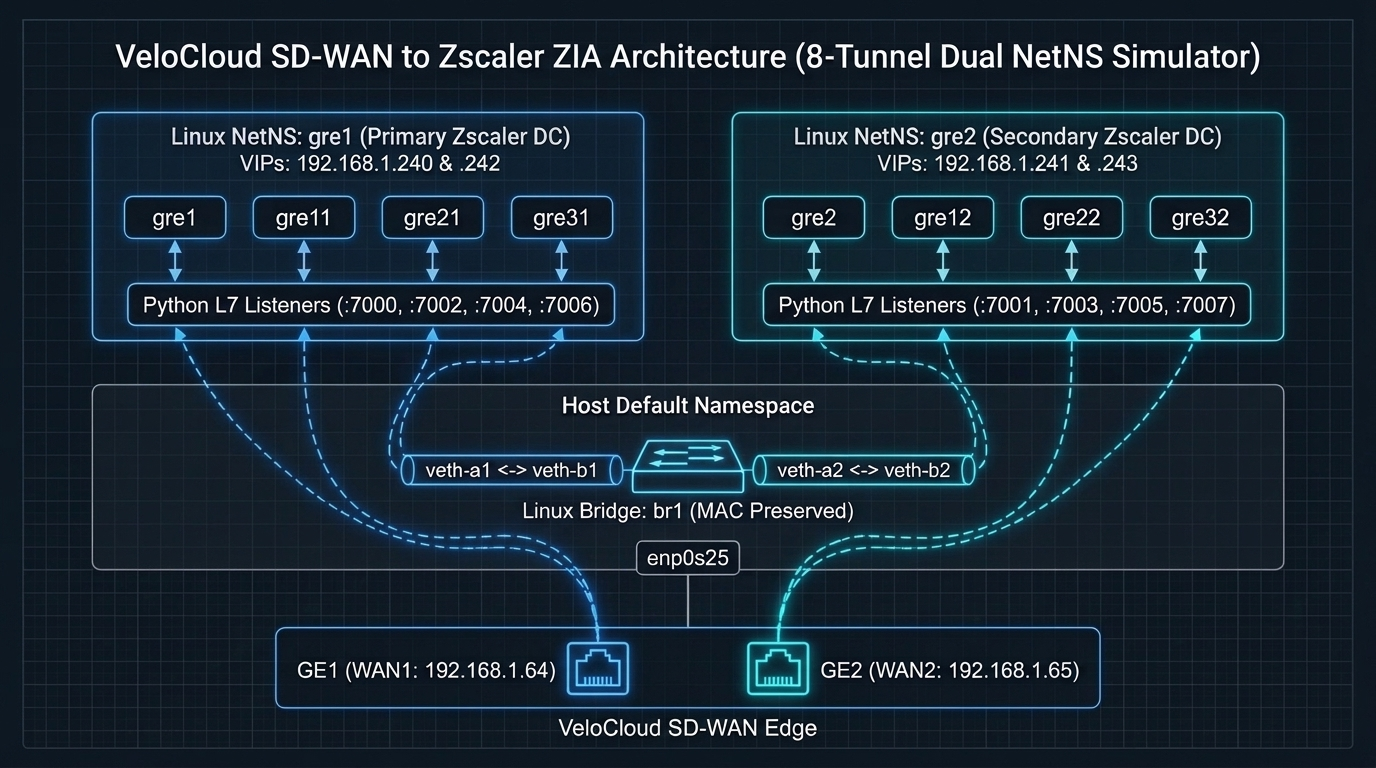
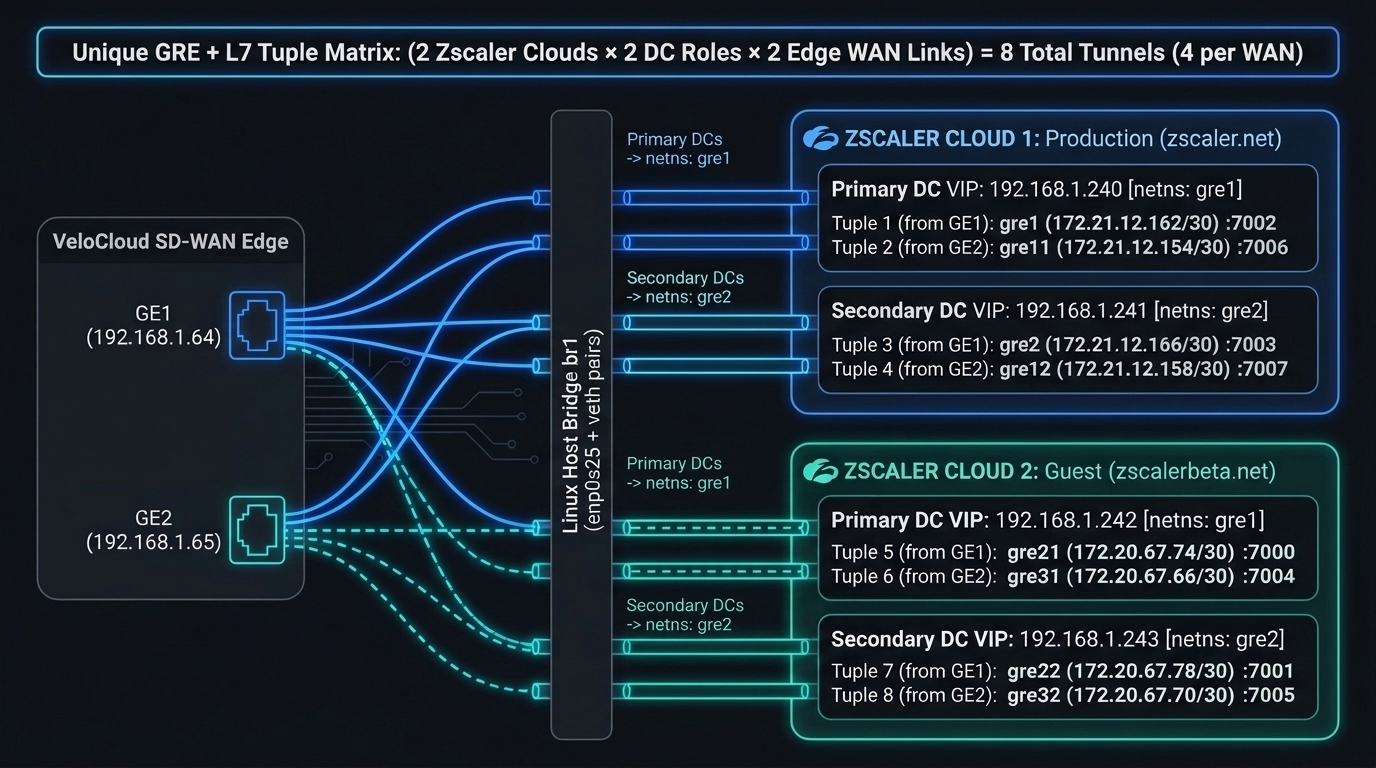
Clarify Zscaler Cloud vs Primary/Secondary DC & Unique 3-Tuple GRE/L7 topology diagrams

diff --git a/README.md b/README.md
@@ -27,20 +27,72 @@ Using **Linux Network Namespaces (`gre1` and `gre2`)**, a **MAC-preserving Linux
 
 ---
 
-## 1. End-to-End Network Architecture
+## 1. End-to-End Network Architecture: Clouds, Primary/Secondary DCs & Unique 3-Tuples
 
-A production VeloCloud SD-WAN deployment with dual WAN links (`GE1` and `GE2`) and two segments (`Production` and `Guest`) builds **8 simultaneous GRE tunnels** to Zscaler (Primary DC and Secondary DC for each WAN link and segment).
+A production VeloCloud SD-WAN Edge with **2 WAN links (`GE1` and `GE2`)** and **2 Zscaler Clouds / CSS profiles (`Production: zscaler.net` and `Guest: zscalerbeta.net`)** builds **4 GRE connections per WAN interface (8 simultaneous GRE tunnels in total)**.
 
-To terminate all 8 GRE tunnels on a single Linux laptop/server without routing table collisions or local IP bypass, the simulator divides the host network stack into two isolated Linux Network Namespaces (`gre1` and `gre2`) connected via a bridge (`br1`):
+Every GRE tunnel—and its dedicated L7 HTTP health check port (`7000`–`7007`)—is uniquely defined by the **3-Tuple**:
+
+$$\text{Unique Connection Tuple} = (\text{Zscaler Cloud}, \text{Datacenter Role [Primary / Secondary]}, \text{Edge WAN Interface [GE1 / GE2]})$$
+
+### 1A. Logical Zscaler Cloud & Unique Tuple Hierarchy (4 Tunnels per WAN / 8 Total)
+
+```mermaid
+flowchart LR
+    subgraph EDGE["VeloCloud SD-WAN Edge (4 Tunnels per WAN Interface)"]
+        GE1["WAN1: GE1 (192.168.1.64)\nOriginates 4 GRE Tunnels + 4 L7 Probes\n(Ports :7002, :7003, :7000, :7001)"]
+        GE2["WAN2: GE2 (192.168.1.65)\nOriginates 4 GRE Tunnels + 4 L7 Probes\n(Ports :7006, :7007, :7004, :7005)"]
+    end
+
+    subgraph CLOUD_PROD["Zscaler Cloud 1: Production (zscaler.net — Segment 10.23.0.0/24)"]
+        subgraph PROD_PRI["Primary DC (destId: 0 | VIP: 192.168.1.240 | netns: gre1)"]
+            T1["Tuple 1: (Prod, Primary, GE1)\nGRE: gre1 (172.21.12.162/30) | L7: :7002"]
+            T2["Tuple 2: (Prod, Primary, GE2)\nGRE: gre11 (172.21.12.154/30) | L7: :7006"]
+        end
+        subgraph PROD_SEC["Secondary DC (destId: 1 | VIP: 192.168.1.241 | netns: gre2)"]
+            T3["Tuple 3: (Prod, Secondary, GE1)\nGRE: gre2 (172.21.12.166/30) | L7: :7003"]
+            T4["Tuple 4: (Prod, Secondary, GE2)\nGRE: gre12 (172.21.12.158/30) | L7: :7007"]
+        end
+    end
+
+    subgraph CLOUD_GUEST["Zscaler Cloud 2: Guest (zscalerbeta.net — Segment 172.16.0.0/24)"]
+        subgraph GUEST_PRI["Primary DC (destId: 0 | VIP: 192.168.1.242 | netns: gre1)"]
+            T5["Tuple 5: (Guest, Primary, GE1)\nGRE: gre21 (172.20.67.74/30) | L7: :7000"]
+            T6["Tuple 6: (Guest, Primary, GE2)\nGRE: gre31 (172.20.67.66/30) | L7: :7004"]
+        end
+        subgraph GUEST_SEC["Secondary DC (destId: 1 | VIP: 192.168.1.243 | netns: gre2)"]
+            T7["Tuple 7: (Guest, Secondary, GE1)\nGRE: gre22 (172.20.67.78/30) | L7: :7001"]
+            T8["Tuple 8: (Guest, Secondary, GE2)\nGRE: gre32 (172.20.67.70/30) | L7: :7005"]
+        end
+    end
+
+    GE1 -->|"1. Prod Pri"| T1
+    GE1 -->|"2. Prod Sec"| T3
+    GE1 -->|"3. Guest Pri"| T5
+    GE1 -->|"4. Guest Sec"| T7
+
+    GE2 -.->|"1. Prod Pri"| T2
+    GE2 -.->|"2. Prod Sec"| T4
+    GE2 -.->|"3. Guest Pri"| T6
+    GE2 -.->|"4. Guest Sec"| T8
+
+    style EDGE stroke:#3b82f6,stroke-width:2px
+    style CLOUD_PROD stroke:#0ea5e9,stroke-width:2px
+    style CLOUD_GUEST stroke:#10b981,stroke-width:2px
+    style PROD_PRI stroke:#10b981,stroke-width:2px
+    style GUEST_PRI stroke:#10b981,stroke-width:2px
+    style PROD_SEC stroke:#8b5cf6,stroke-width:2px
+    style GUEST_SEC stroke:#8b5cf6,stroke-width:2px
+```
+
+### 1B. Physical Host Bridge (`br1`) & Linux Network Namespace Mapping (`gre1` vs `gre2`)
+
+To terminate all 8 GRE tunnels on a single Linux laptop/server without routing table collisions (`10.23.0.0/24` and `172.16.0.0/24`) or local IP bypass, the simulator maps **all Primary DCs (`.240` & `.242`) into namespace `gre1`** and **all Secondary DCs (`.241` & `.243`) into namespace `gre2`**, connected via a MAC-preserving Linux Bridge (`br1`):
 
 ```mermaid
 flowchart TB
-    subgraph EDGE["VeloCloud SD-WAN Edge Appliance"]
-        GE1["GE1 (WAN1): 192.168.1.64"]
-        GE2["GE2 (WAN2): 192.168.1.65"]
-    end
-
     subgraph UNDERLAY["Physical LAN / WAN Underlay (192.168.1.0/24)"]
+        EDGE_WAN["VeloCloud Edge WANs: GE1 (.64) & GE2 (.65)"]
         GW["Upstream Gateway / Internet: 192.168.1.254"]
     end
 
@@ -54,33 +106,26 @@ flowchart TB
         BR1 --> VA2
     end
 
-    subgraph NS_GRE1["Network Namespace: gre1 (Primary Zscaler DC)"]
-        VB1["veth-b1 VIPs: 192.168.1.240 (Prod) & 192.168.1.242 (Guest)"]
-        T_PRI_PROD["Prod GRE Tunnels: gre1 (GE1 .162/30) & gre11 (GE2 .154/30)"]
-        T_PRI_GUEST["Guest GRE Tunnels: gre21 (GE1 .74/30) & gre31 (GE2 .66/30)"]
-        L7_PRI["Python L7 HTTP Listeners: :7002, :7006 (Prod) | :7000, :7004 (Guest)"]
-        VB1 --> T_PRI_PROD
-        VB1 --> T_PRI_GUEST
-        VB1 --> L7_PRI
+    subgraph NS_GRE1["Network Namespace: gre1 (Hosts BOTH Primary Zscaler DCs)"]
+        VB1["veth-b1"]
+        PRI_C1["Cloud 1 Primary DC (zscaler.net — VIP 192.168.1.240)\n- GE1 Tuple: gre1 (172.21.12.162/30) + L7 :7002\n- GE2 Tuple: gre11 (172.21.12.154/30) + L7 :7006"]
+        PRI_C2["Cloud 2 Primary DC (zscalerbeta.net — VIP 192.168.1.242)\n- GE1 Tuple: gre21 (172.20.67.74/30) + L7 :7000\n- GE2 Tuple: gre31 (172.20.67.66/30) + L7 :7004"]
+        VB1 --> PRI_C1
+        VB1 --> PRI_C2
     end
 
-    subgraph NS_GRE2["Network Namespace: gre2 (Secondary Zscaler DC)"]
-        VB2["veth-b2 VIPs: 192.168.1.241 (Prod) & 192.168.1.243 (Guest)"]
-        T_SEC_PROD["Prod GRE Tunnels: gre2 (GE1 .166/30) & gre12 (GE2 .158/30)"]
-        T_SEC_GUEST["Guest GRE Tunnels: gre22 (GE1 .78/30) & gre32 (GE2 .70/30)"]
-        L7_SEC["Python L7 HTTP Listeners: :7003, :7007 (Prod) | :7001, :7005 (Guest)"]
-        VB2 --> T_SEC_PROD
-        VB2 --> T_SEC_GUEST
-        VB2 --> L7_SEC
+    subgraph NS_GRE2["Network Namespace: gre2 (Hosts BOTH Secondary Zscaler DCs)"]
+        VB2["veth-b2"]
+        SEC_C1["Cloud 1 Secondary DC (zscaler.net — VIP 192.168.1.241)\n- GE1 Tuple: gre2 (172.21.12.166/30) + L7 :7003\n- GE2 Tuple: gre12 (172.21.12.158/30) + L7 :7007"]
+        SEC_C2["Cloud 2 Secondary DC (zscalerbeta.net — VIP 192.168.1.243)\n- GE1 Tuple: gre22 (172.20.67.78/30) + L7 :7001\n- GE2 Tuple: gre32 (172.20.67.70/30) + L7 :7005"]
+        VB2 --> SEC_C1
+        VB2 --> SEC_C2
     end
 
-    GE1 <-->|"GRE + L7 Probes"| UNDERLAY
-    GE2 <-->|"GRE + L7 Probes"| UNDERLAY
-    UNDERLAY <--> NIC
+    EDGE_WAN <-->|"8 GRE Tunnels + 8 L7 Probes"| NIC
     VA1 <-->|"Virtual Ethernet Pipe"| VB1
     VA2 <-->|"Virtual Ethernet Pipe"| VB2
 
-    style EDGE stroke:#3b82f6,stroke-width:2px
     style HOST stroke:#64748b,stroke-width:2px
     style NS_GRE1 stroke:#10b981,stroke-width:2px
     style NS_GRE2 stroke:#8b5cf6,stroke-width:2px

diff --git a/docs/DEEP_DIVE_L7_VS_GRE_HEALTHCHECKS.md b/docs/DEEP_DIVE_L7_VS_GRE_HEALTHCHECKS.md
@@ -81,10 +81,42 @@ On the VeloCloud Edge, Layer 7 health checks are driven by `/opt/vc/sbin/l7_heal
    When CSS L7 Health Checks are enabled, `edged` allocates destination ports out of the range `7000`–`7063` (logged in `/var/log/edged.log` as `[NVS] l7_health_dst_port_int: L7 Health dst ports range 7000--7063`).
 2. **One Port per `(Cloud, Destination DC, WAN Link)` Tuple:**
    Each combination of:
-   - **CSS Service (`nvsLogicalId`)**: e.g., Production (`zscaler.net`) vs. Guest (`zscalerbeta.net`)
+   - **CSS Service / Zscaler Cloud (`nvsLogicalId`)**: Production (`zscaler.net`) vs. Guest (`zscalerbeta.net`)
    - **Datacenter (`destId`)**: `0` (Primary DC) vs. `1` (Secondary DC)
    - **WAN Interface (`linkLogicalId`)**: `GE1` (`192.168.1.64`) vs. `GE2` (`192.168.1.65`)
-   receives its own dedicated port from `7000` to `7007`:
+   receives its own dedicated port from `7000` to `7007` (4 ports per WAN interface, 4 ports per Zscaler Cloud):
+
+```mermaid
+flowchart LR
+    subgraph EDGE["VeloCloud Edge L7 Prober (l7_health_check.py)"]
+        W1["WAN1: GE1 (192.168.1.64)\n4 Unique Tuple Probes"]
+        W2["WAN2: GE2 (192.168.1.65)\n4 Unique Tuple Probes"]
+    end
+
+    subgraph C_PROD["Zscaler Cloud 1: zscaler.net (Production)"]
+        P_PRI["Primary DC (destId: 0 | VIP .240 | netns gre1)\n- Tuple (Prod, Pri, GE1) -> TCP :7002 (gre1)\n- Tuple (Prod, Pri, GE2) -> TCP :7006 (gre11)"]
+        P_SEC["Secondary DC (destId: 1 | VIP .241 | netns gre2)\n- Tuple (Prod, Sec, GE1) -> TCP :7003 (gre2)\n- Tuple (Prod, Sec, GE2) -> TCP :7007 (gre12)"]
+    end
+
+    subgraph C_GUEST["Zscaler Cloud 2: zscalerbeta.net (Guest)"]
+        G_PRI["Primary DC (destId: 0 | VIP .242 | netns gre1)\n- Tuple (Guest, Pri, GE1) -> TCP :7000 (gre21)\n- Tuple (Guest, Pri, GE2) -> TCP :7004 (gre31)"]
+        G_SEC["Secondary DC (destId: 1 | VIP .243 | netns gre2)\n- Tuple (Guest, Sec, GE1) -> TCP :7001 (gre22)\n- Tuple (Guest, Sec, GE2) -> TCP :7005 (gre32)"]
+    end
+
+    W1 -->|":7002"| P_PRI
+    W1 -->|":7003"| P_SEC
+    W1 -->|":7000"| G_PRI
+    W1 -->|":7001"| G_SEC
+
+    W2 -.->|":7006"| P_PRI
+    W2 -.->|":7007"| P_SEC
+    W2 -.->|":7004"| G_PRI
+    W2 -.->|":7005"| G_SEC
+
+    style EDGE stroke:#3b82f6,stroke-width:2px
+    style C_PROD stroke:#0ea5e9,stroke-width:2px
+    style C_GUEST stroke:#10b981,stroke-width:2px
+```
 
 | `dstPort` | `cloud` | `destId` | `nvsIp` (Zscaler VIP) | WAN Link | Simulator Namespace |
 | :--- | :--- | :--- | :--- | :--- | :--- |
